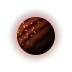
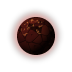
Redraw life world v2 (continents, untilted caps) and mineral world v3 (cracked plates with ore)
Claude-Session: https://claude.ai/code/session_01DRKpqnCyrZwnZLKGJij4TG

diff --git a/tools/make_planet_types.py b/tools/make_planet_types.py
@@ -1,16 +1,18 @@
 #!/usr/bin/env python3
-"""Second looks for the three planet types, made from the planets that
-make_art.py draws:
+"""Extra looks for the three planet types (life, mineral and dead worlds),
+next to planet.png, planet5.png and planet6.png from make_art.py. One is
+made from a make_art.py planet:
 
-    life world     planet.png  -> planet-life2.png     (small polar caps)
-    mineral world  planet5.png -> planet-mineral2.png  (new dark-red world
-                                                        with glowing veins)
     dead world     planet6.png -> planet-dead2.png     (cratered)
 
-and a third look for each, drawn fresh:
+and drawn fresh:
 
+    planet-life2.png     continents of forest, savanna and desert in teal
+                         seas, small polar caps
+    planet-mineral2.png  dark-red world with glowing veins
     planet-life3.png     ocean world: scattered islands under swirling cloud
-    planet-mineral3.png  crimson world banded in rust strata, flecked with ore
+    planet-mineral3.png  dark red crust in plates, some rich in copper ore,
+                         with craters
     planet-dead3.png     dusty brown-grey world with dark basins and a rayed crater
 
     tools/make_planet_types.py [--out ADDON_DIR]
@@ -66,25 +68,6 @@ def noise(rng, n, base=4, octaves=5):
 def shade(nx, ny, nz):
     lam = np.clip(nx * LIGHT[0] + ny * LIGHT[1] + nz * LIGHT[2], 0, 1)
     return 0.12 + 0.88 * lam
-
-
-def polar_caps(src, rng):
-    nx, ny, nz, inside = sphere_coords()
-    wob = noise(rng, HEX * SS, base=6) - 0.5
-    # latitude along a slightly tilted axis; caps reach about 30 degrees
-    tilt = np.radians(12)
-    lat = ny * np.cos(tilt) + nx * np.sin(tilt)
-    north = np.clip((-lat - 0.80 - 0.14 * wob) * 16, 0, 1)
-    south = np.clip((lat - 0.80 - 0.14 * wob) * 16, 0, 1)
-    cap = np.where(inside, np.maximum(north, south), 0)
-    s = shade(nx, ny, nz)
-    ice = np.array([236, 244, 255], np.float32)
-    cap_rgb = ice[None, None, :] * (0.22 + 0.78 * s)[..., None]   # ice shows a little on the night side
-    a = down(cap)[..., None]
-    rgb = down_rgb(cap_rgb * cap[..., None]) / np.maximum(a, 1e-6)
-    img = np.asarray(src, np.float32).copy()
-    img[..., :3] = img[..., :3] * (1 - a) + rgb * a
-    return Image.fromarray(img.clip(0, 255).astype(np.uint8), "RGBA")
 
 
 def down_rgb(arr):
@@ -168,10 +151,14 @@ def mineral_world(rng):
     return canvas
 
 
-def textured_sphere(rgb, glow=None):
-    """4x rgb on the sphere, lit, scaled down, on a hex canvas with an optional glow."""
+def textured_sphere(rgb, glow=None, lift=None):
+    """4x rgb on the sphere, lit, scaled down, on a hex canvas with an optional
+    glow. `lift` (0..1) keeps bright parts like ice faintly visible at night."""
     nx, ny, nz, inside = sphere_coords()
-    rgb = rgb * shade(nx, ny, nz)[..., None]
+    s = shade(nx, ny, nz)
+    if lift is not None:
+        s = s + (1 - s) * 0.22 * lift
+    rgb = rgb * s[..., None]
     alpha = down(inside.astype(np.float32)) * 255
     sphere = Image.fromarray(np.dstack([down_rgb(rgb), alpha]).clip(0, 255).astype(np.uint8), "RGBA")
     canvas = Image.new("RGBA", (HEX, HEX), (0, 0, 0, 0))
@@ -209,20 +196,58 @@ def life_world3(rng):
     return textured_sphere(rgb, glow=(130, 190, 255))
 
 
-def mineral_world3(rng):
-    """Crimson world in tilted rust strata, flecked with bright ore."""
+def life_world2(rng):
+    """Continents of forest, savanna and desert in teal seas, with small
+    polar caps square to the axis."""
     nx, ny, nz, inside = sphere_coords()
     n = HEX * SS
-    t = noise(rng, n, base=3)
-    lat = ny * 0.8 + nx * 0.6 + 0.45 * (t - 0.5)
-    bands = np.sin(lat * 13) * 0.5 + 0.5
-    rgb = ramp(0.6 * bands + 0.4 * noise(rng, n, base=6),
-               [(40, 10, 12), (78, 18, 20), (128, 40, 26), (150, 62, 34), (92, 24, 22)])
-    flecks = (rng.random((n, n)) < 0.0025).astype(np.float32)
-    flecks = np.asarray(Image.fromarray((flecks * 255).astype(np.uint8)).filter(ImageFilter.MaxFilter(5)), np.float32) / 255
-    flecks *= np.clip((noise(rng, n, base=4) - 0.2) * 3, 0, 1)
-    rgb = rgb * (1 - flecks[..., None]) + np.array([255, 170, 90], np.float32) * flecks[..., None]
-    return textured_sphere(rgb, glow=(200, 50, 40))
+    land = noise(rng, n, base=3)
+    coast = 0.56
+    sea = ramp(np.clip((coast - land) / 0.25, 0, 1), [(40, 150, 150), (22, 105, 130), (14, 60, 105)])
+    biome = noise(rng, n, base=5)
+    # drier towards the equator, greener towards the poles
+    dry = np.clip(biome * 0.75 + (1 - np.abs(ny)) * 0.35 - 0.38, 0, 1)
+    ground = ramp(dry, [(38, 82, 40), (72, 112, 50), (128, 132, 64), (176, 150, 88), (198, 172, 118)])
+    m = np.clip((land - coast) * 30, 0, 1)[..., None]
+    rgb = sea * (1 - m) + ground * m
+    wob = noise(rng, n, base=7) - 0.5
+    cap = np.clip((np.abs(ny) - 0.84 - 0.10 * wob) * 18, 0, 1)[..., None]
+    rgb = rgb * (1 - cap) + np.array([238, 244, 252], np.float32) * cap
+    return textured_sphere(rgb, glow=(120, 200, 215), lift=cap[..., 0])
+
+
+def mineral_world3(rng):
+    """Dark red crust broken into plates, a few of them rich with copper ore,
+    pocked by craters."""
+    nx, ny, nz, inside = sphere_coords()
+    n = HEX * SS
+    pts = rng.normal(size=(70, 3))
+    pts /= np.linalg.norm(pts, axis=1, keepdims=True)
+    normals = np.stack([nx, ny, nz], -1).reshape(-1, 3)
+    ang = np.arccos(np.clip(normals @ pts.T, -1, 1))
+    order = np.argsort(ang, axis=1)
+    first = order[:, 0]
+    a1 = np.take_along_axis(ang, order[:, :1], 1)[:, 0]
+    a2 = np.take_along_axis(ang, order[:, 1:2], 1)[:, 0]
+    tone = rng.random(len(pts))[first].reshape(n, n)
+    ore = (rng.random(len(pts)) < 0.3)[first].reshape(n, n).astype(np.float32)
+    grain = noise(rng, n, base=8, octaves=4)
+    rgb = ramp(np.clip(0.65 * tone + 0.35 * grain, 0, 1),
+               [(44, 12, 12), (70, 18, 16), (98, 28, 20), (124, 40, 26)])
+    crack = np.clip(1 - (a2 - a1).reshape(n, n) / 0.045, 0, 1)
+    rgb *= (1 - 0.75 * crack)[..., None]
+    speck = np.clip((noise(rng, n, base=40, octaves=2) - 0.58) * 6, 0, 0.8) * ore
+    rgb = rgb * (1 - speck[..., None]) + np.array([215, 120, 60], np.float32) * speck[..., None]
+    return craters(textured_sphere(rgb, glow=(200, 50, 40)), rng, count=10)
+
+
+def spend(rng, *bases):
+    """Make the draws an earlier look made, so the looks after it stay the same."""
+    for b in bases:
+        if b is None:
+            rng.random((HEX * SS, HEX * SS))
+        else:
+            noise(rng, HEX * SS, base=b)
 
 
 def dead_world3(rng):
@@ -252,13 +277,14 @@ def main():
     args = ap.parse_args()
     d = os.path.join(args.out, "images/terrain/sc")
     rng = np.random.default_rng(args.seed)
-    polar_caps(Image.open(os.path.join(d, "planet.png")).convert("RGBA"), rng).save(
-        os.path.join(d, "planet-life2.png"))
+    life_world2(np.random.default_rng(args.seed + 1)).save(os.path.join(d, "planet-life2.png"))
+    spend(rng, 6)                         # the first life world v2
     mineral_world(rng).save(os.path.join(d, "planet-mineral2.png"))
     craters(Image.open(os.path.join(d, "planet6.png")).convert("RGBA"), rng).save(
         os.path.join(d, "planet-dead2.png"))
     life_world3(rng).save(os.path.join(d, "planet-life3.png"))
-    mineral_world3(rng).save(os.path.join(d, "planet-mineral3.png"))
+    mineral_world3(np.random.default_rng(args.seed + 2)).save(os.path.join(d, "planet-mineral3.png"))
+    spend(rng, 3, 6, None, 4)             # the first mineral world v3
     dead_world3(rng).save(os.path.join(d, "planet-dead3.png"))
 
 
